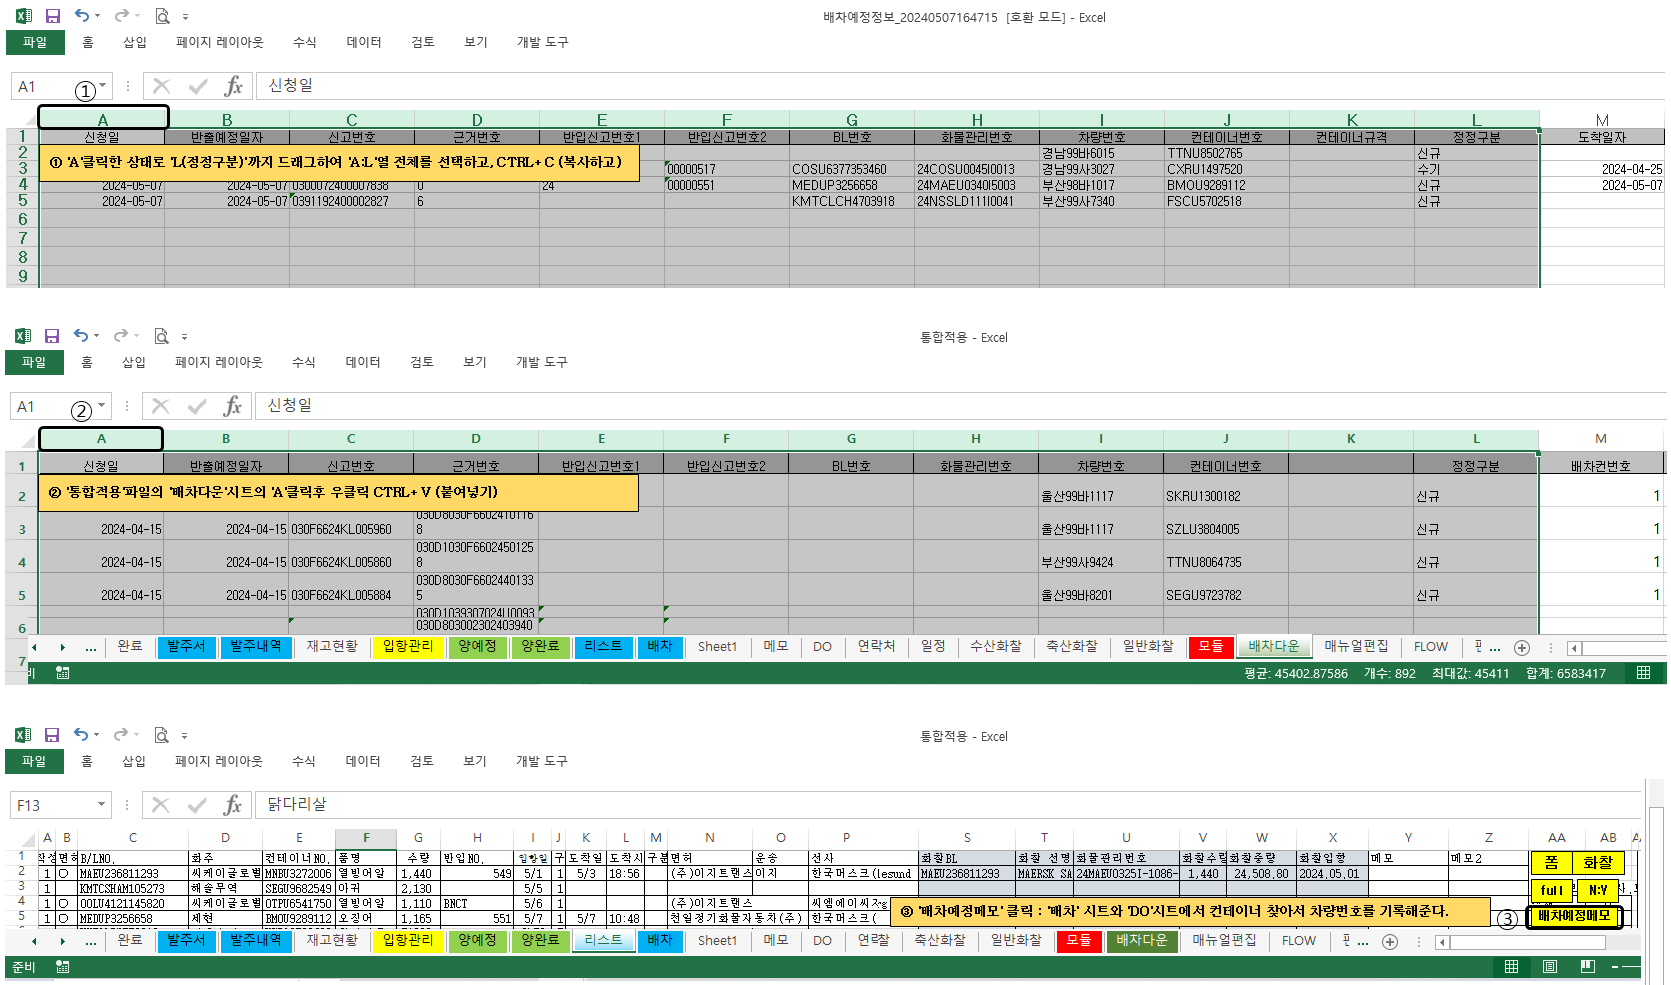
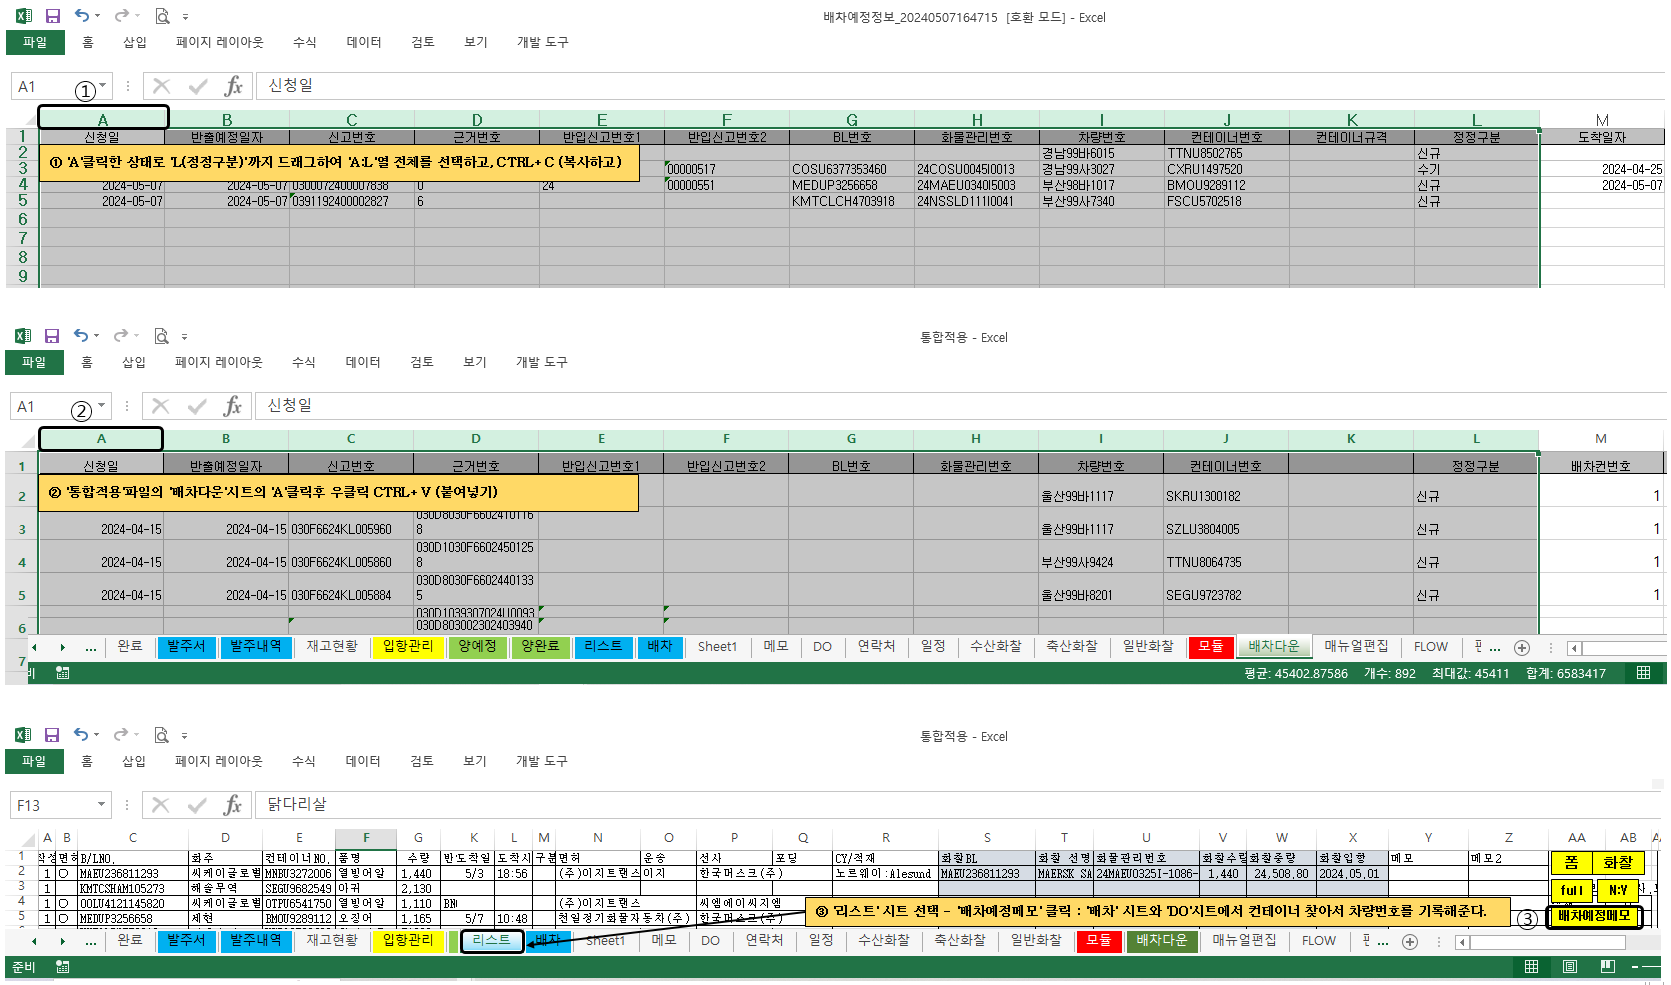
ㅊㅌㅍㅌㅍ

Changed region(s): [[0.249, 0.8223, 0.9958, 1.0]]

diff --git a/index.html b/index.html
@@ -168,18 +168,18 @@
     
     <div title="버튼과ul">
       <button class="btn btn-success" type="button" onclick="sub_list_Show(event)">
-      화물관련 대장 작성 및 관리방법
+      화물관련 대장, 안내문, 간판, 특허장의 게시 등
       </button>
       <ul>
-        <li class="content" title="" data-title="결과물_id">X설명이 필요(간판, 안내문, 게시사항)</li>
-        <li class="content" title="" data-title="결과물_id">X설명이 필요한 대장들(세관봉인대,환적화물,반송화물)</li>
+        <li class="content" title="_07_대장게시등_게시사항" data-title="결과물_id">특허장의 게시 등 : 간판, 안내문, 게시사항</li>
+        <li class="content" title="_07_대장게시등_설명이필요한대장들" data-title="결과물_id">세관봉인대, 환적화물, 반송화물반출보고서 </li>
         <li class="content" title="" data-title="결과물_id">X내국물품반출입관리대장, 보수작업관리대장</li>
         <li class="content" title="" data-title="결과물_id">X장치물품 수입신고전 확인대장</li>
         <li class="content" title="" data-title="결과물_id">X보세구역 출입대장, 내부 화물관리규정</li>
         <li class="content" title="" data-title="결과물_id">X보세운송 도착대장, 반입이상보고 대장</li>
         <li class="content" title="" data-title="결과물_id">X체화화물 관리대장, 반출통고 이행여부 관련철</li>
         <li class="content" title="" data-title="결과물_id">X견품반출허가대장, 검역불합격품관리대장</li>
-        <li class="content" title="_07_09_대장관련_여보세요" data-title="결과물_id">세관 여!보세요 발행물 [교육하라고함]</li>
+        <li class="content" title="_07_09_대장관련_여보세요" data-title="결과물_id">★세관 여!보세요 발행물 [관세법령교육에 활용]</li>
       </ul>
     </div> 
 
@@ -764,8 +764,7 @@
     <li id="move8" class="목차">결과 보기 (화면기준 96건이 들어있습니다) </li>
     <img src="portal/images/문서연결_세관및유니패스/03_세관_03_법규준수도_02_법규수행3.png" alt="이미지없음">
     <br>
-    <li id="move9" class="목차">결과 보기 : 모든항목을 발췌하였습니다. (배점부분이 부정확한 것 같습니다.) </li>
-    <li>조건별 점수 정보를 알아보아야겠습니다. </li>
+    <li id="move9" class="목차">결과 보기 : 모든항목을 발췌하였습니다.</li>
     <img src="portal/images/문서연결_세관및유니패스/03_세관_03_법규준수도_02_법규수행4.png" alt="이미지없음">
     <br><br><br><br>
   </section>
@@ -1368,32 +1367,58 @@
     <h5>3) 관리가 강화되어 보세운송 반출 전에 정보가 전송되는 것 같음.</h5>
     <h5>★ 보세운송 업체가 화물관리번호를 넣지 않으면?? </h5>
     <h5 class="h5_번들작">미래소프트 프로그램에 BL, 화물관리번호, 반입잡은 것의 반입NO. 가 공란이 된다. </h5>
-    <h5 class="h5_번들작">'이 경우, 배차예정정보를 수기로 입력해야 함.' </h5>
+    <h5 class="h5_번들작">'이 경우, 배차예정정보를 수기로 입력해야 함.' ==> 반입정보 끌어오면서 차량번호 넣기. 정보생성. </h5>
     <img src="portal/images/문서연결_세관및유니패스/06_반출입_파순08_보세운송차량정보수기.png" alt="이미지없음">
     <h5>★ 기존(작성법 참고) : 엑셀활용하여 '보세운송차량기록지' 작성. </h5>
     <h5>★ 선택(작성법 참고) : 미래소프트 프로그램에서 엑셀활용하여 '보세운송수단 배차예정내역' 작성. </h5>
     <br>
-    <h4 id="move2" class="목차">&#9634; 기존 작성법 : '보세운송차량기록지' </h4>
+    <h4 id="move2" class="목차">&#9634; 기존 작성법 : '통합적용' 엑셀파일에서, '보세운송차량기록지' 기본정보 기록방법 </h4>
+    <h5>1. '리스트'시트에서 반입NO, 도착일, 도착일시를 기록한다. 차량번호만 기록하면 되는 정보가 된다.</h5>
+    <img src="portal/images/문서연결_세관및유니패스/06_반출입_파순08_리스트시트기록.png" alt="이미지없음">
+    <br>
+    <h5>2. 1.의 정보를 '배차'시트로 편집하여 옮기는 매크로 실행.</h5>
+    <img src="portal/images/문서연결_세관및유니패스/06_반출입_파순08_배차로넘김매크로.png" alt="이미지없음">
+    <br>
+    <h5>3. '배차'시트 확인. 2.에서 매크로 실행으로 넘어오면 '배차'시트 맨 아래에 누적된다.</h5>
+    <h5 class="h5_번들작">'완성되면 여기서 출력' (출력물에 머리글 나오도록 : <img src="portal/images/문서연결_세관및유니패스/06_반출입_파순08_머리글두줄.png" alt="이미지없음"> 클릭으로 머리글 삽입 활용) </h5>
+    <h5 class="h5_번들작">'출력한 정보'는 'DO'시트로 복사이동후 삭제</h5>
+    <img src="portal/images/문서연결_세관및유니패스/06_반출입_파순08_배차시트확인.png" alt="이미지없음">
+    <br>
+    <h4 id="move3" class="목차">&#9634; 기존 작성법 : '보세운송차량기록지'에 배차예정정보의 차량번호 가져오는 방법</h4>
     <h5>※ '통합적용' 엑셀파일 켜놓기 - ①'배차다운' 시트 선택해 놓기</h5>
     <img src="portal/images/문서연결_세관및유니패스/06_반출입_파순08_배차다운.png" alt="이미지없음">
     <br>
-    <h5>※ 순서 : ① 배차예정정보를 엑셀파일로 변환,  ② 붙여넣기, ③ 매크로 실행, ④ 편집하여 출력물 편철 후 2년간 보관</h5>
+    <h5>※ 순서 : 배차예정정보를 엑셀파일로 변환 - 붙여넣기 - 매크로 실행 - 편집하여 출력물 편철 후 2년간 보관</h5>
     <h5>▸ 메뉴에 접근 : EDI - 기타정보 - 배차예정정보 조회/출력</h5>
     <img src="portal/images/문서연결_세관및유니패스/06_반출입_파순08_보세운송차량정메뉴에접근.png" alt="이미지없음">
     <br>
-    <h5>▸ 배차예정정보 엑셀로 변환 : ① 신청일자 기전 설정,  ② 검색 클릭, ③ EXCEL로 클릭, ④ EXCEL화일로 변환하기! 클릭</h5>
+    <h5>▸ 배차예정정보 엑셀로 변환 : ① 신청일자 기간 설정,  ② 검색 클릭, ③ EXCEL로 클릭, ④ EXCEL화일로 변환하기! 클릭</h5>
     <img src="portal/images/문서연결_세관및유니패스/06_반출입_파순08_보세운송차량정보엑셀변환.png" alt="이미지없음">
     <br>
-    <h5>▸ ① 배차예정정보 복사,  ② '통합정보' 파일 '배차다운' 시트에 붙여넣기, ③ '리스트' 시트의 '배차예정메모' 클릭</h5>
+    <h5>▸ ① (변환된 엑셀파일에서)배차예정정보 복사,  ② '통합정보' 파일 '배차다운' 시트에 붙여넣기, </h5>
+    <h5 style="text-indent: 53px;">③ '리스트' 시트의 '배차예정메모' 매크로 상자 클릭</h5>
     <img src="portal/images/문서연결_세관및유니패스/06_반출입_파순08_보세운송차량정보매크로.png" alt="이미지없음">
     <br>
     <h5>▸ '배차'시트에 도착일과 도착시간 누락된곳 기록하고 편집하여 출력하여 보관한다.</h5>
     <br>
-    <h4 id="move3" class="목차">&#9634; 미래소프트 프로그램에 기록 : '보세운송수단 배차예정내역' </h4>
-    <h5>※ 순서 : ① 반입NO, BL, 화물관리번호 뜨지 않는 정보는 '배차예정정보 수기 입력'으로 생성,</h5>
-    <h5 style="text-indent: 113px;">② 도착일시 등록, ③ 반입일시 등록, ④ 세관 요구시 출력</h5>
+    <h4 id="move4" class="목차">&#9634; 미래소프트 프로그램에 기록 : '보세운송수단 배차예정내역' </h4>
+    <h5>※ 순서 : 반입NO, BL, 화물관리번호 뜨지 않는 정보는 '배차예정정보 수기 입력'으로 생성,</h5>
+    <h5>▸ 메뉴에 접근 : EDI - 기타정보 - 배차예정정보 조회/출력</h5>
+    <img src="portal/images/문서연결_세관및유니패스/06_반출입_파순08_보세운송차량정메뉴에접근.png" alt="이미지없음">
     <br>
-    <h4 id="move4" class="목차">&#9634; 법령정보 (도착일과 도착일시 기록 및 자료보관 2년) </h4>
+    <h5>★ 보세운송 업체가 화물관리번호를 넣지 않으면?? </h5>
+    <h5 class="h5_번들작">미래소프트 프로그램에 BL, 화물관리번호, 반입잡은 것의 반입NO. 가 공란이 된다. </h5>
+    <h5 class="h5_번들작">'이 경우, 배차예정정보를 수기로 입력해야 함.' ==> 반입정보 끌어오면서 차량번호 넣기. 정보생성. </h5>
+    <img src="portal/images/문서연결_세관및유니패스/06_반출입_파순08_보세운송차량정보수기.png" alt="이미지없음">
+    <br>
+    <h5>★ <img src="portal/images/문서연결_세관및유니패스/06_반출입_파순08_반입정보불러오기아이콘.png" alt="이미지없음"> 활용하여 '배차예정정보' 생성 방법 </h5>
+    <h5 class="h5_번들작">▸ ① <img src="portal/images/문서연결_세관및유니패스/06_반출입_파순08_반입정보불러오기아이콘.png" alt="이미지없음"> 클릭, ② 검색정보 설정, ③ 차량번호 입력, ④ 체크하기, ⑤ '배차예정정보저장(A)' 클릭.</h5>
+    <img src="portal/images/문서연결_세관및유니패스/06_반출입_파순08_보세운송차량정보수기기록방법.png" alt="이미지없음">
+    <br>
+    <h5>★ <img src="portal/images/문서연결_세관및유니패스/06_반출입_파순08_도착일시등록아이콘.png" alt="이미지없음"> : 차량번호수정, 컨테이버번호수정, 도착일시 수정 </h5>
+    <h5>★ <img src="portal/images/문서연결_세관및유니패스/06_반출입_파순08_반입일시등록아이콘.png" alt="이미지없음"> : 반입일시 수정 </h5>
+    <br>
+    <h4 id="move5" class="목차">&#9634; 법령정보 (도착일과 도착일시 기록 및 자료보관 2년) </h4>
     <img src="portal/images/문서연결_세관및유니패스/06_반출입_파순08_보세운송차량법령정보.png" alt="이미지없음">
     <br>
     <img src="portal/images/문서연결_세관및유니패스/06_반출입_파순08_보세운송차량여보세요1.png" alt="이미지없음">
@@ -1408,6 +1433,21 @@
     <div id="스크립트로ul추가"></div>
     <h4 id="move1" class="목차">&#9634; </h4>
 
+    <br><br><br><br>
+  </section>
+
+  <section id="_07_대장게시등_게시사항">
+    <div id="스크립트로ul추가"></div>
+    <h4 id="move1" class="목차">&#9634; 특허장의 게시 등</h4>
+    <img src="portal/images/문서연결_세관및유니패스/07_대장게시등_게시사항.png" alt="이미지없음">
+    <br><br><br><br>
+  </section>
+
+  <section id="_07_대장게시등_설명이필요한대장들">
+    <div id="스크립트로ul추가"></div>
+    <h4 id="move1" class="목차">&#9634; 세관봉인대 관리대장</h4>
+    <h4 id="move2" class="목차">&#9634; 환적화물 적출입 관리대장</h4>
+    <h4 id="move3" class="목차">&#9634; 반송화물 반출보고서</h4>
     <br><br><br><br>
   </section>
 
